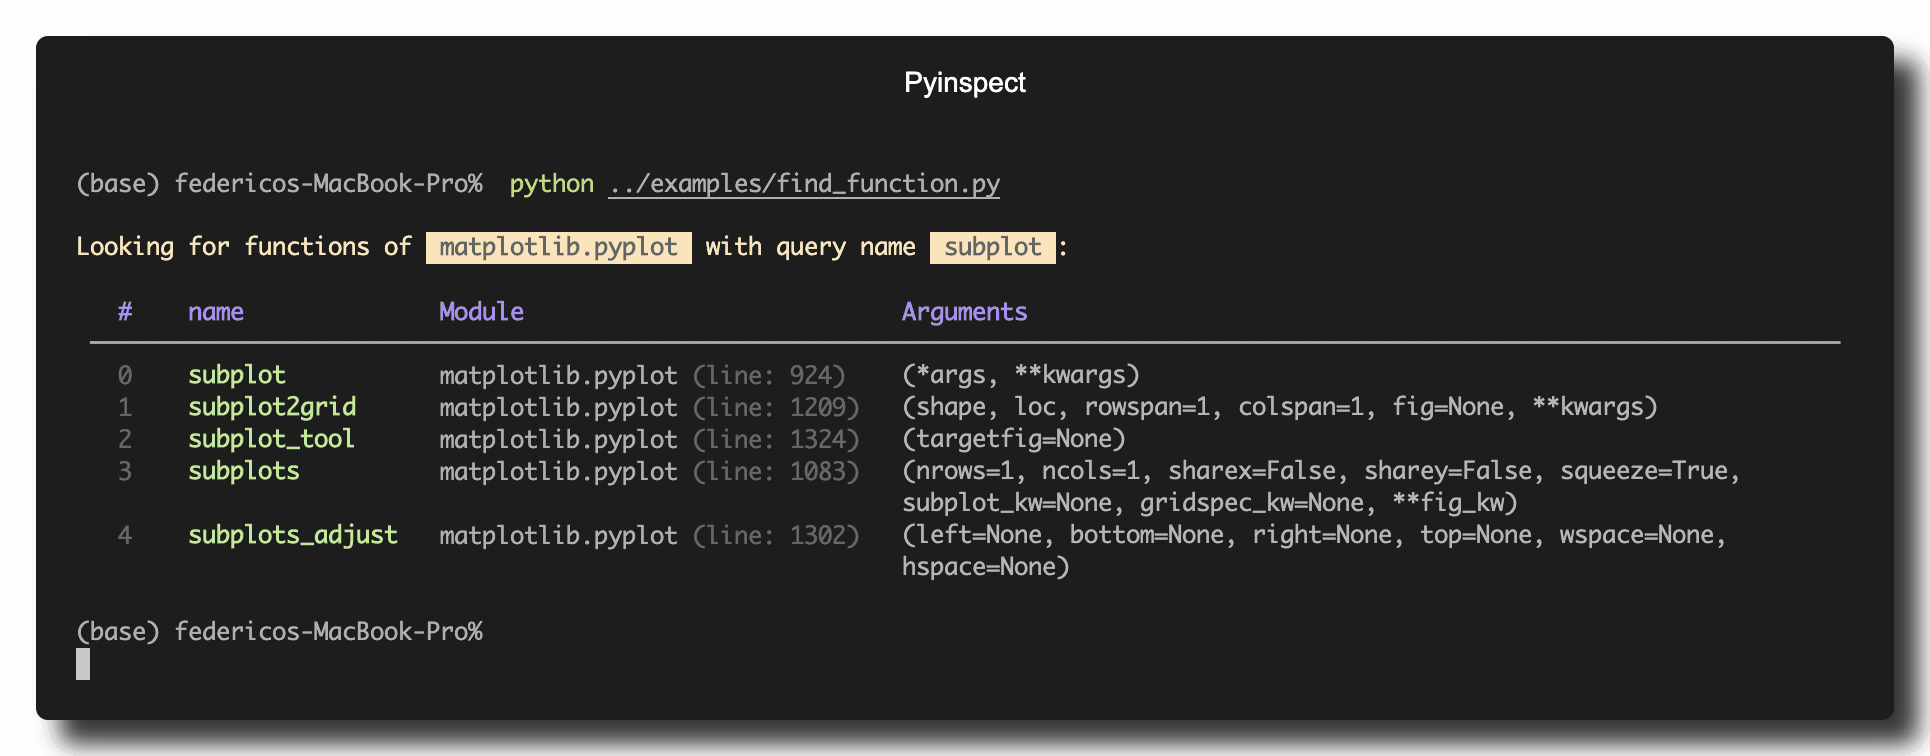
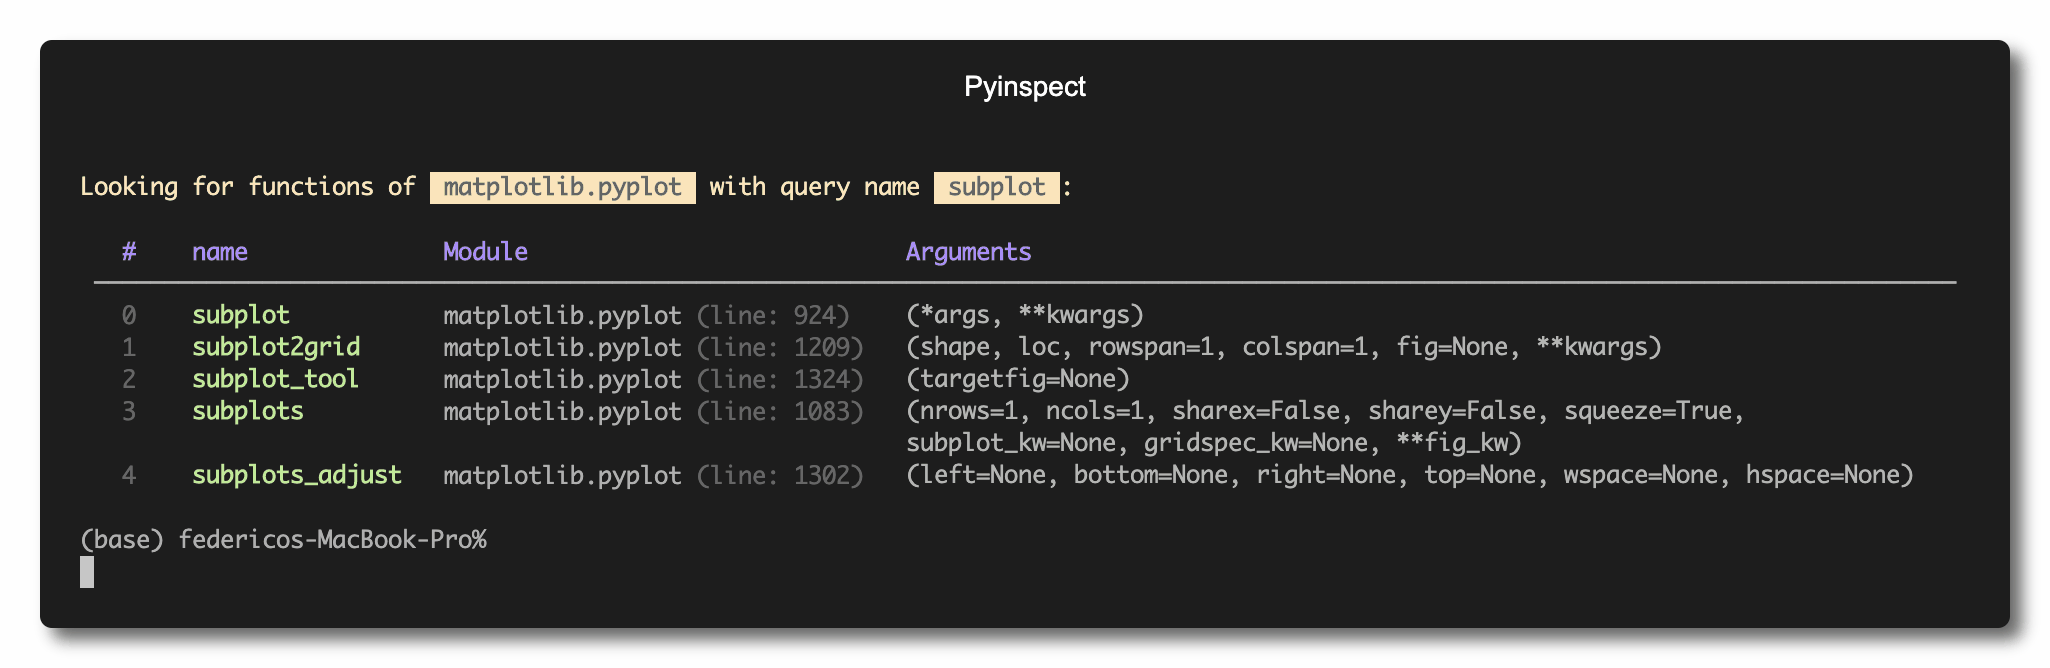
better media in README

Changed region(s): [[0.0, 0.0299, 1.0, 1.0], [0.0311, 0.7784, 0.2487, 0.8982], [0.4663, 0.0898, 0.5285, 0.1497]]

diff --git a/scripts/get_gif_last_frame.py b/scripts/get_gif_last_frame.py
@@ -26,7 +26,9 @@ def get(fpath):
     im.save(str(fld / newname), format="png")
 
     print(f"Saving image at : {str(fld / newname)}")
-    os.remove(fpath)
+
+    if "intro" not in fpath:
+        os.remove(fpath)
 
 
 if __name__ == "__main__":

diff --git a/README.md b/README.md
@@ -3,6 +3,7 @@
 [![language](https://img.shields.io/github/languages/top/FedeClaudi/pyinspect.svg)](https://img.shields.io/github/languages/top/FedeClaudi/pyinspect)
 [![language](https://img.shields.io/github/last-commit/FedeClaudi/pyinspect/master.svg)](https://img.shields.io/github/last-commit/FedeClaudi/pyinspect/master)
 [![language](https://img.shields.io/github/stars/FedeClaudi/pyinspect?style=social.svg)](https://img.shields.io/github/stars/FedeClaudi/pyinspect?style=social)
+[![Code style: black](https://img.shields.io/badge/code%20style-black-000000.svg)](https://github.com/psf/black)
 <img src='coverage.svg'>
 
 
@@ -16,7 +17,7 @@ its name, then I have **good news!**. `pyinspect` is here to help you out.
 `pyinspect` allows you to search for functions and class methods based on their name and 
 prints out a handy table with all the functions that met your search criteria.
 
-[![gif](media/intro_crop.gif)](media/intro_crop.gif)
+[![gif](media/intro_cut.gif)](media/intro_cut.gif)
 
 
 ### Installing pyinspect
